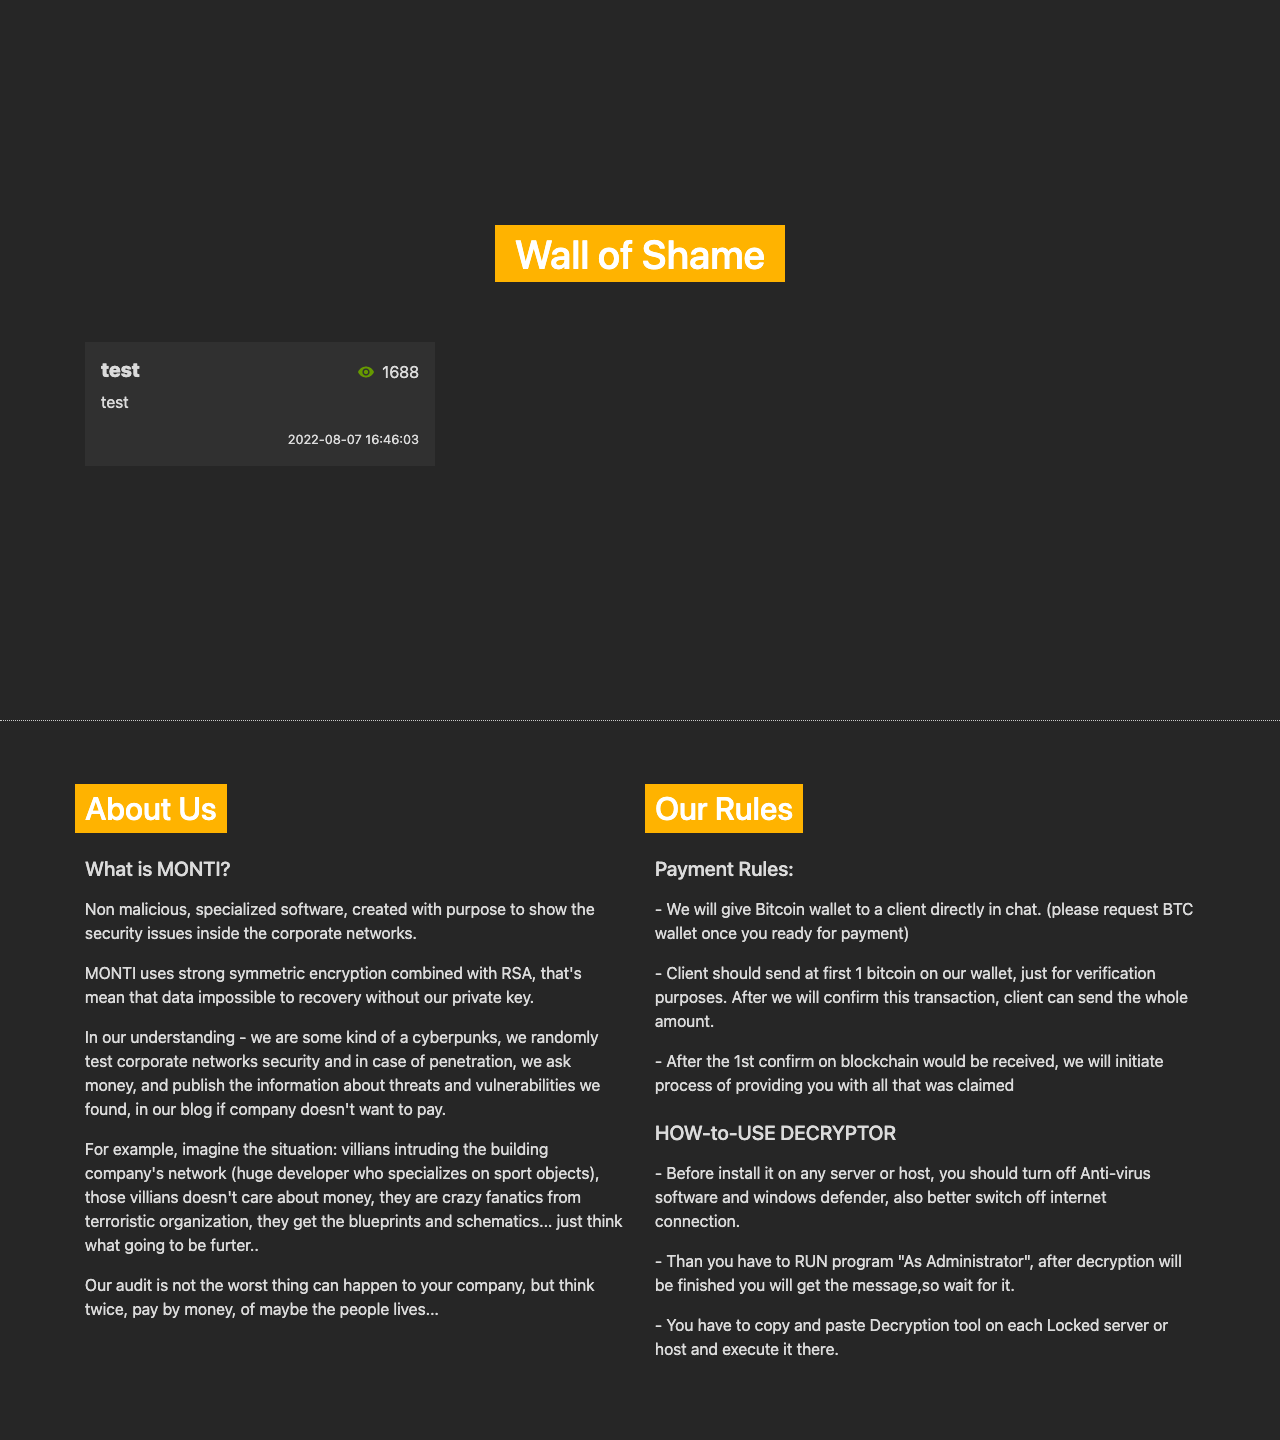
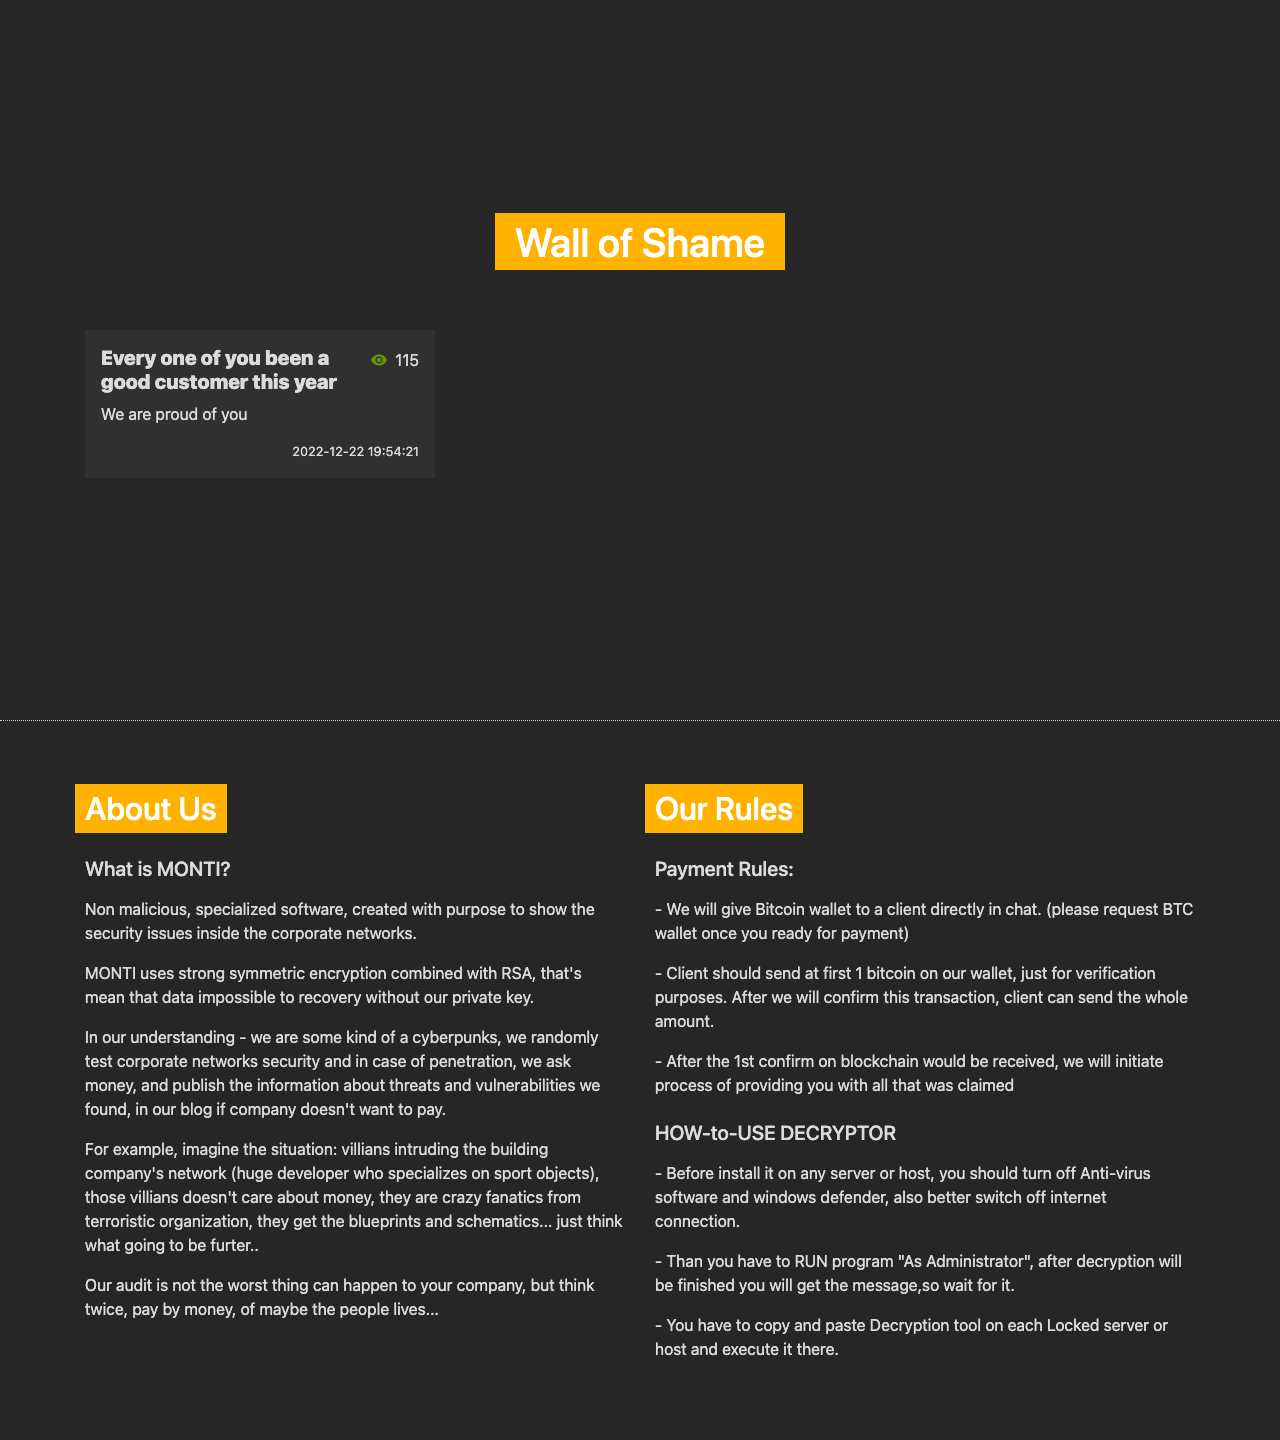
Update monti

Changed region(s): [[0.375, 0.125, 0.625, 0.2188], [0.0625, 0.2188, 0.3438, 0.3125]]

diff --git a/source/monti-mblogci3rudehaagbryjznltdp33ojwzkq6hn2pckvjq33rycmzczpid.html b/source/monti-mblogci3rudehaagbryjznltdp33ojwzkq6hn2pckvjq33rycmzczpid.html
@@ -61,22 +61,22 @@
             <div class="row pb-5">
 
 <div class="col-lg-4 col-sm-6 mb-4">
[2 lines of base64/hex data omitted]
                                         <div class="row">
                                             <div class="col">
-                                                <h5 style="color:#dbdbdb" >test</h5>
+                                                <h5 style="color:#dbdbdb" >Every one of you been a good customer this year</h5>
                                             </div>
                                             <div class="col-auto">
-                                                <img src="./assets/images/eye.svg" width="16" class="mr-2 align-middle"><span style="color:#dbdbdb" class="align-middle">1824</span>
+                                                <img src="./assets/images/eye.svg" width="16" class="mr-2 align-middle"><span style="color:#dbdbdb" class="align-middle">115</span>
                                             </div>
                                             <div class="col-12">
-                                                <p style="color:#dbdbdb" >test</p>
+                                                <p style="color:#dbdbdb" >We are proud of you</p>
                                             </div>
                                             <div class="col">
                                                 <div class="read-more">Read More</div>
                                             </div>
                                             <div style="color:#dbdbdb" class="col-auto published">
-                                                2022-08-07 16:46:03
+                                                2022-12-22 19:54:21
                                             </div>
                                         </div>
                                     </a>

diff --git a/docs/allposts.md b/docs/allposts.md
@@ -1,7 +1,7 @@
 # 📰 All posts
 
 
-_All `4721` posts_
+_All `4722` posts_
 
 
 💾 [Download](https://raw.githubusercontent.com/JMousqueton/ransomwatch/main/posts.json) full list in **json** format
@@ -11,6 +11,7 @@ _All `4721` posts_
 
 | date | title | group |
 |---|---|---|
+| 2022-12-22 | [`Every one of you been a good customer this year`](https://google.com/search?q=Every+one+of+you+been+a+good+customer+this+year) | [monti](profiles.md?id=monti) |
 | 2022-12-22 | [`maxionwheels.com`](https://google.com/search?q=maxionwheels.com) | [lockbit3](profiles.md?id=lockbit3) |
 | 2022-12-22 | [`SOFTEQ.COM`](https://google.com/search?q=SOFTEQ.COM) | [clop](profiles.md?id=clop) |
 | 2022-12-22 | [`MARCELSOLUTION.COM`](https://google.com/search?q=MARCELSOLUTION.COM) | [clop](profiles.md?id=clop) |
@@ -4732,4 +4733,4 @@ _All `4721` posts_
 | 2020-06-10 | [`Leaks Company Birch Communications inc.`](https://google.com/search?q=Leaks+Company+Birch+Communications+inc.) | [ragnarlocker](profiles.md?id=ragnarlocker) |
 | 2020-01-12 | [`Windemuller`](https://google.com/search?q=Windemuller) | [lorenz](profiles.md?id=lorenz) |
 
-Last update : _Thursday 22/12/2022 20.12 (UTC)_
+Last update : _Thursday 22/12/2022 20.18 (UTC)_

diff --git a/docs/recentposts.md b/docs/recentposts.md
@@ -2,6 +2,7 @@
 
 | Date | Title | Group |
 |---|---|---|
+| 2022-12-22 | [`Every one of you been a good customer this year`](https://google.com/search?q=Every+one+of+you+been+a+good+customer+this+year) | [monti](profiles.md?id=monti) |
 | 2022-12-22 | [`maxionwheels.com`](https://google.com/search?q=maxionwheels.com) | [lockbit3](profiles.md?id=lockbit3) |
 | 2022-12-22 | [`SOFTEQ.COM`](https://google.com/search?q=SOFTEQ.COM) | [clop](profiles.md?id=clop) |
 | 2022-12-22 | [`MARCELSOLUTION.COM`](https://google.com/search?q=MARCELSOLUTION.COM) | [clop](profiles.md?id=clop) |
@@ -201,6 +202,5 @@
 | 2022-12-18 | [`Conform`](https://google.com/search?q=Conform) | [royal](profiles.md?id=royal) |
 | 2022-12-18 | [`S??????????`](https://google.com/search?q=S%3F%3F%3F%3F%3F%3F%3F%3F%3F%3F) | [play](profiles.md?id=play) |
 | 2022-12-17 | [`All Seasons Global Solutions`](https://google.com/search?q=All+Seasons+Global+Solutions) | [royal](profiles.md?id=royal) |
-| 2022-12-17 | [`Australian Real Estate Group Pty Ltd`](https://google.com/search?q=Australian+Real+Estate+Group+Pty+Ltd) | [bianlian](profiles.md?id=bianlian) |
 
-Last update : _Thursday 22/12/2022 20.12 (UTC)_
+Last update : _Thursday 22/12/2022 20.18 (UTC)_

diff --git a/docs/README.md b/docs/README.md
@@ -17,11 +17,11 @@ Check recent ransomware posts [`here`](recentposts.md)
 
 ⏰ There have been `129` posts within the `last 24 hours`
 
-🕓 There have been `414` posts within the `month of december`
+🕓 There have been `415` posts within the `month of december`
 
-📅 There have been `953` posts within the `last 90 days`
+📅 There have been `954` posts within the `last 90 days`
 
-🏚 There have been `2974` posts since the `1st January 2022`
+🏚 There have been `2975` posts since the `1st January 2022`
 
 📸 There are `115` ransomware group host screenshots
 
@@ -29,11 +29,11 @@ Check recent ransomware posts [`here`](recentposts.md)
 
 🚀 There have been `1713` posts `last year`
 
-🐣 There have been `4721` posts `since the dawn of ransomware.live`
+🐣 There have been `4722` posts `since the dawn of ransomware.live`
 
 ⚙ There are `70` custom parsers indexing posts
 
 
 
-Last update : _Thursday 22/12/2022 20.12 (UTC)_
+Last update : _Thursday 22/12/2022 20.18 (UTC)_
 

diff --git a/docs/profiles.md b/docs/profiles.md
@@ -5473,10 +5473,11 @@ _`marketplace - not a ransomware group, previous clearnet marketo.cloud`_
 
 ### Posts
 
-> 1 post found
+> 2 posts found
 
 | post | date | Description
 |---|---|---|
+| [`Every one of you been a good customer this year`]() | 22/12/2022 |  |
 | `test` | 07/12/2022 |   |
 
 
@@ -8079,4 +8080,4 @@ _`aka fonix`_
  --- 
 
 
-Last update : _Thursday 22/12/2022 20.12 (UTC)_
+Last update : _Thursday 22/12/2022 20.18 (UTC)_
